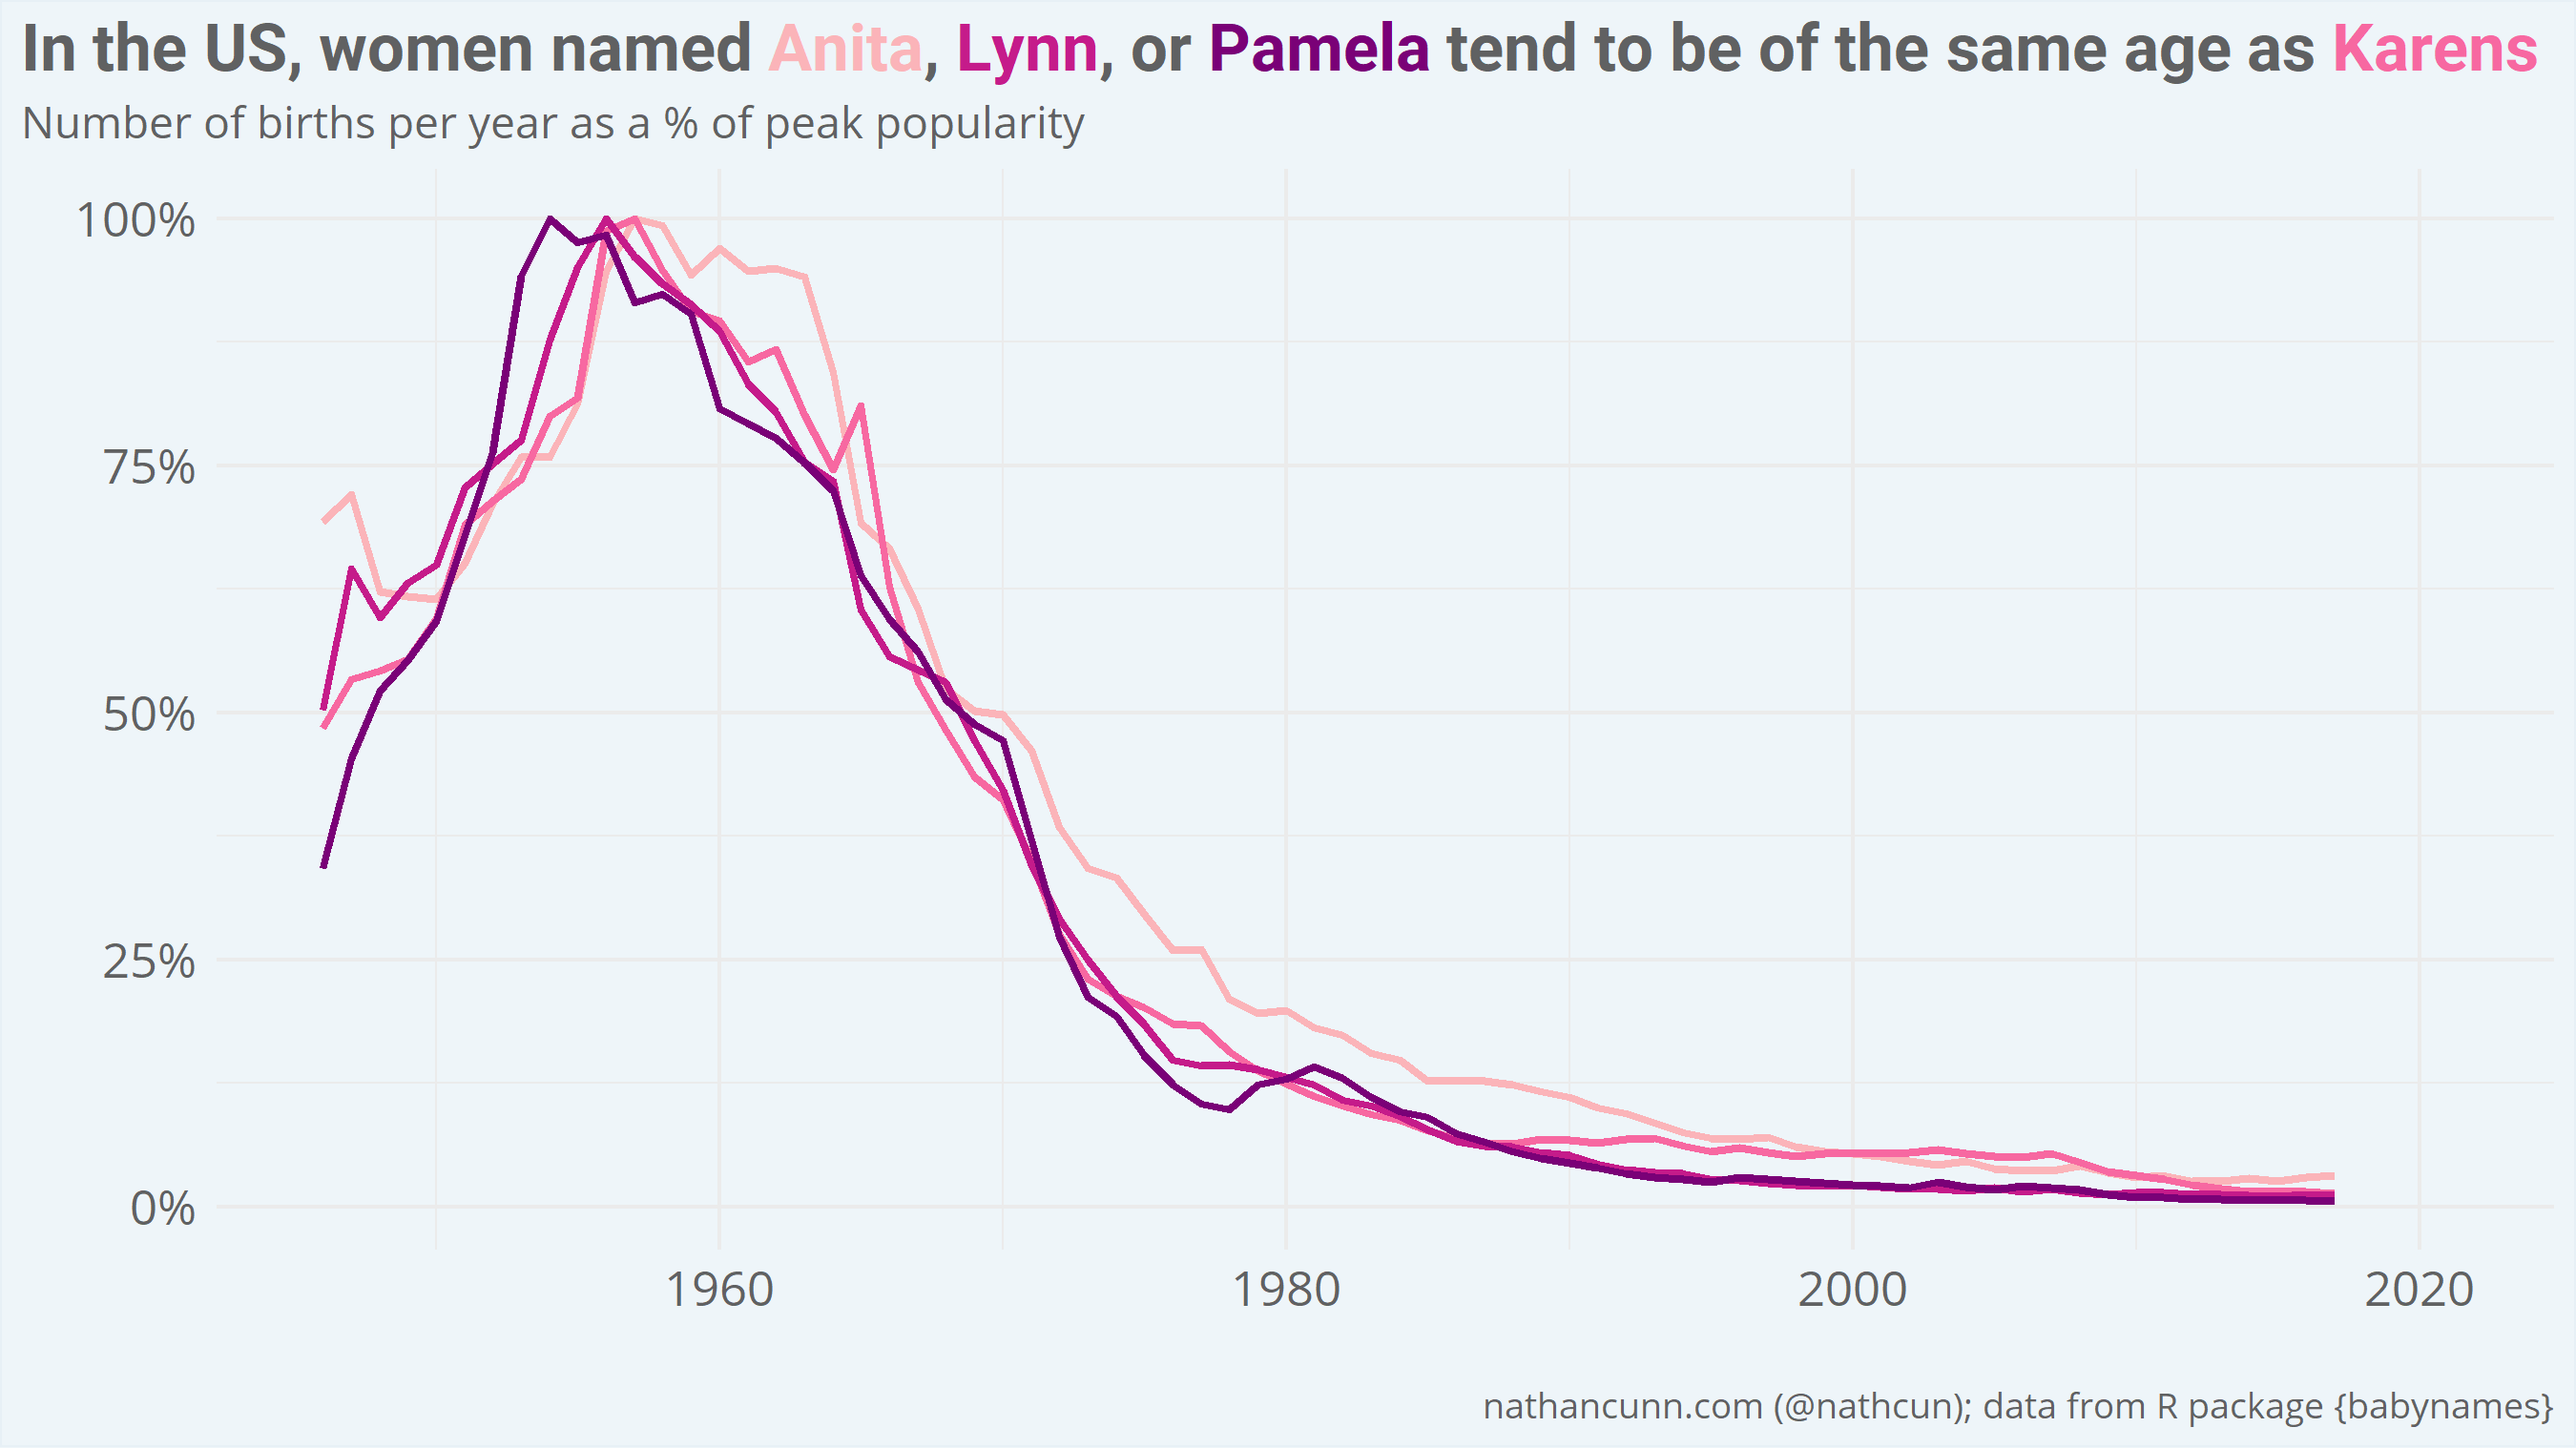
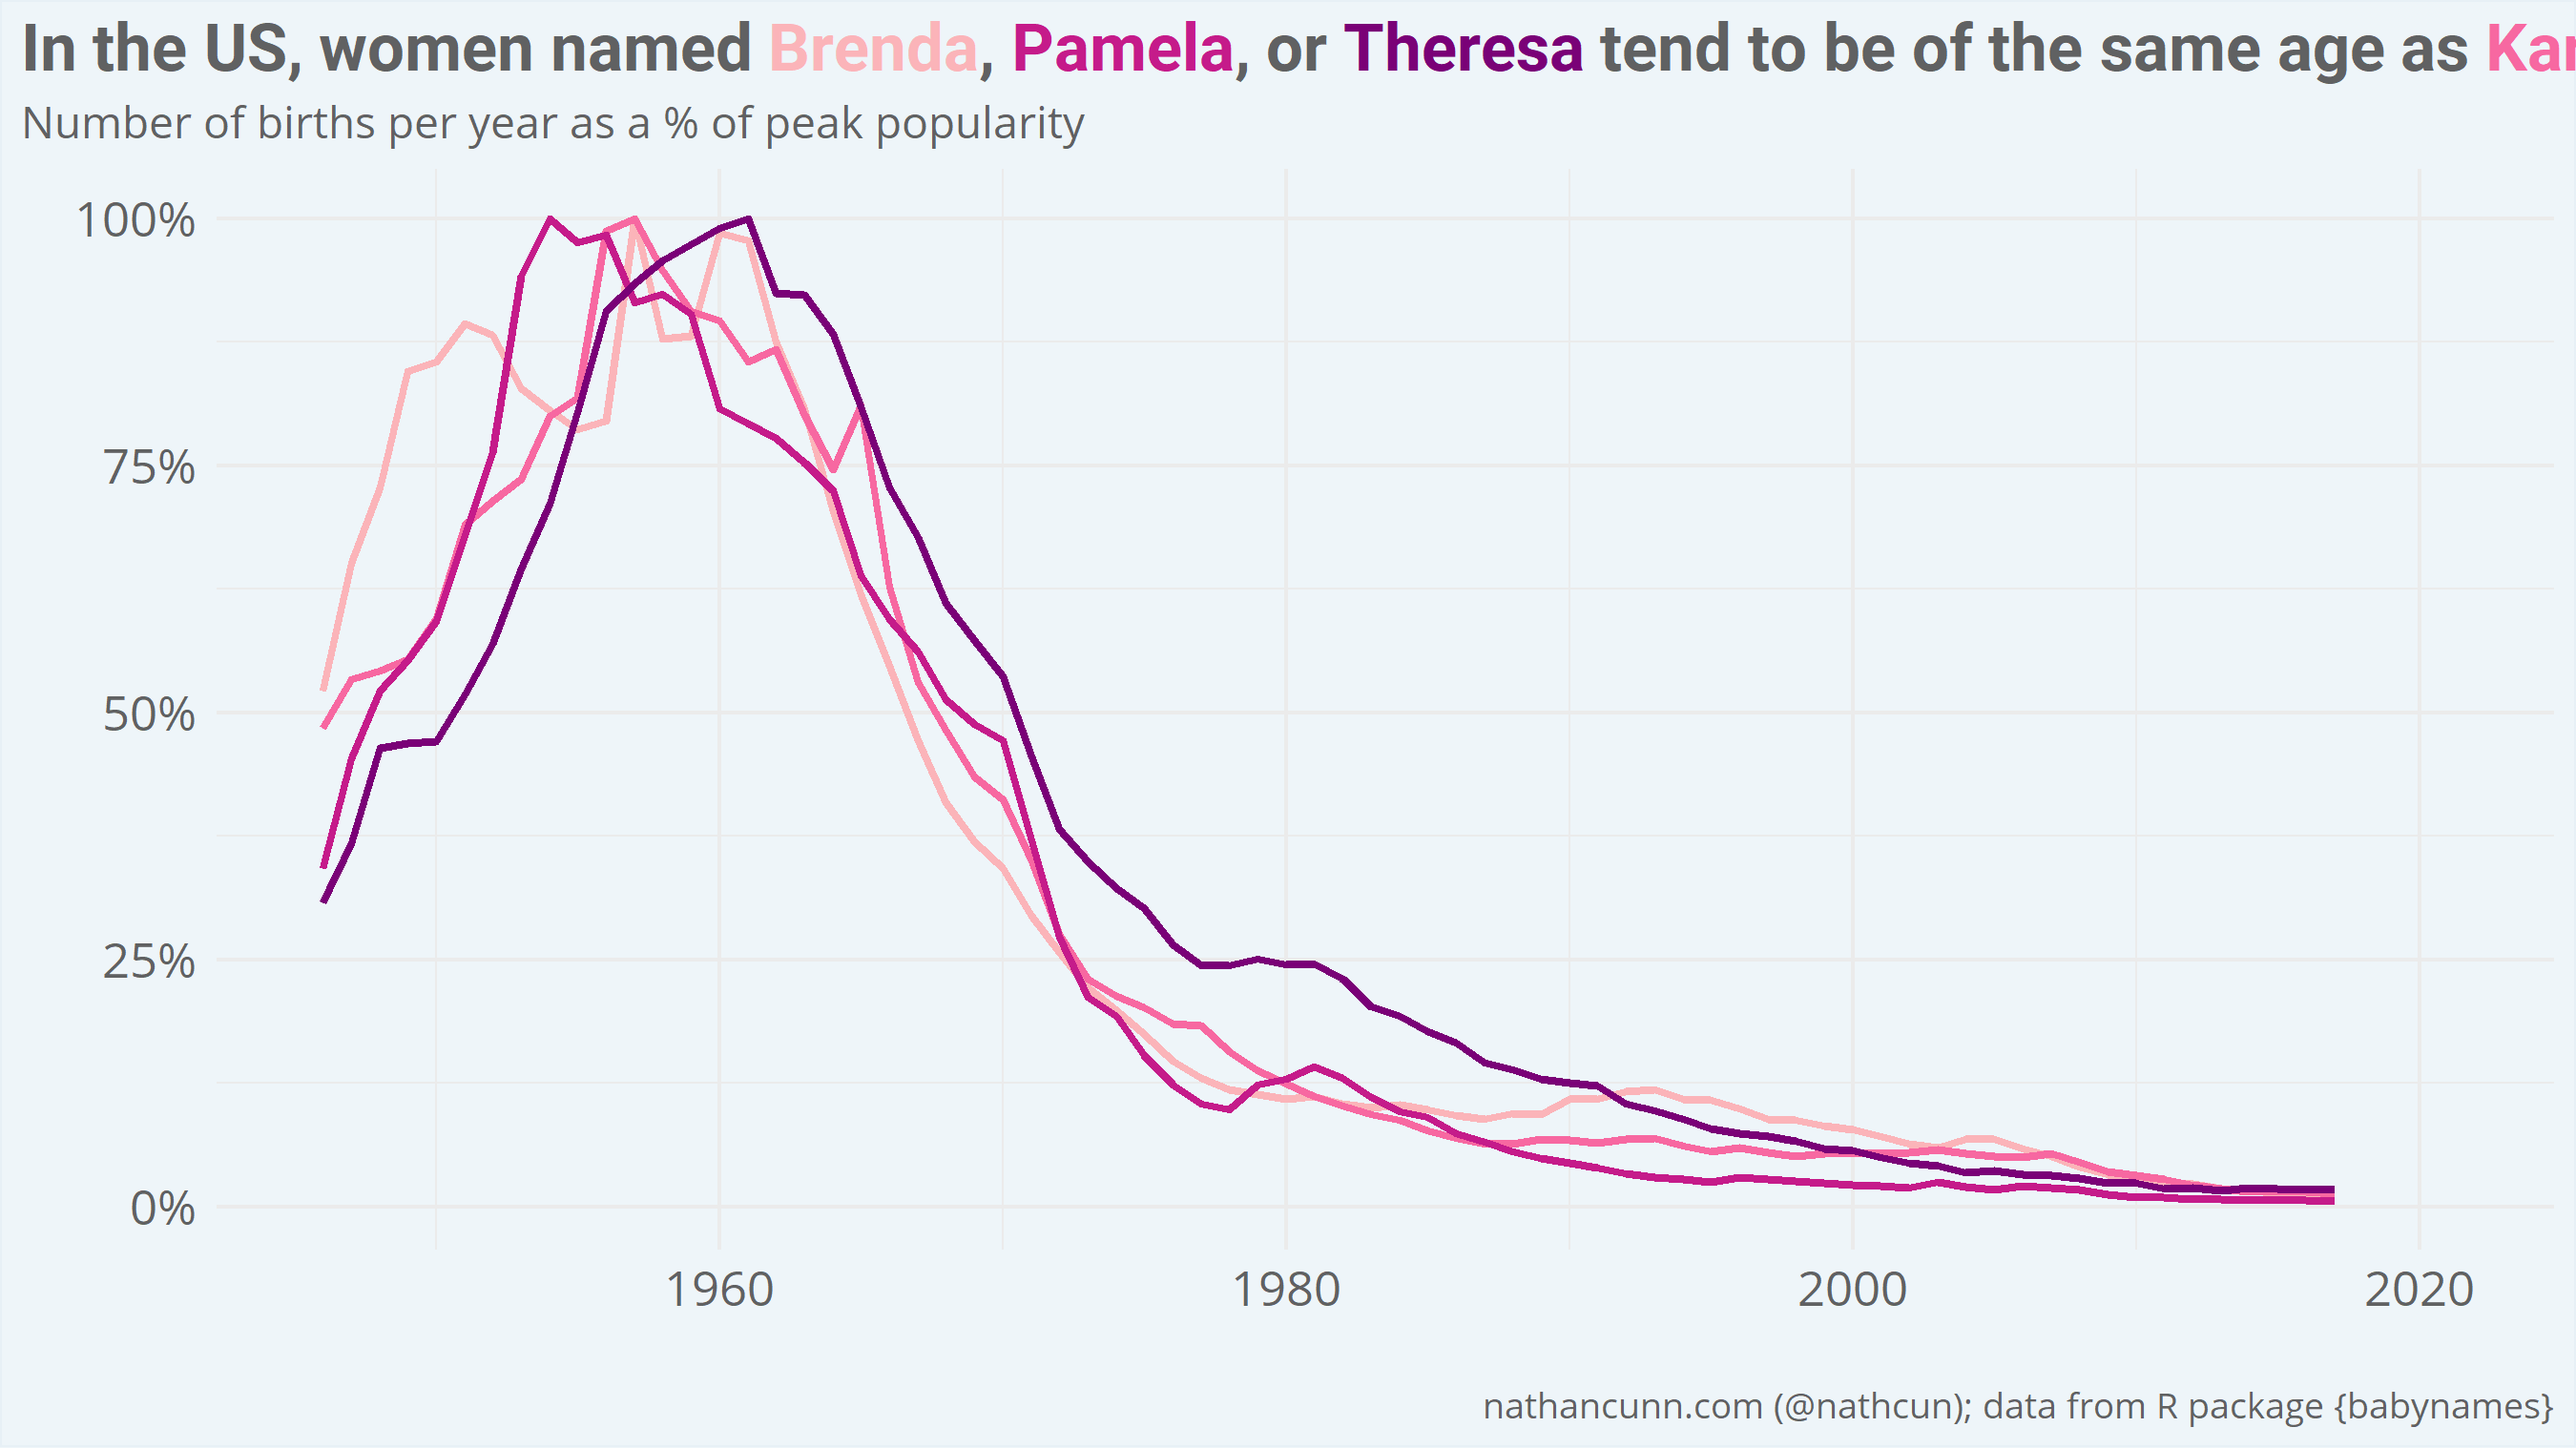
Update Karen posts

Changed region(s): [[0.1244, 0.1548, 0.9022, 0.836], [0.28, 0.0, 1.0, 0.0619]]

diff --git a/_posts/2020-08-14-karen.md b/_posts/2020-08-14-karen.md
@@ -13,12 +13,12 @@ The _Karen_ archetype, to be clear, predates the pandemic and is more generally 
 ![Line chart showing number of Karens born per year in the US, with a peak occurring in the late 1950s, and decline from the late 1960s.](../figure/source/karens/karens.png)
 
 
-On the other hand, women named Anita, Lynn, or Pamela (among others) might count themselves lucky not to have been landed with the entitlement label.
-Of names associated with greater than 100,000 births since 1945, these are the names exhibiting the most similar pattern. The relative ubiquity of Karens, might be why they were spared (>880,000 Karens born since 1945, in contrast with >569,00 Pamelas, >165,000 Lynns, and >143,000 Anitas).
+On the other hand, women named Brenda, Pamela, or Theresa (among others) might count themselves lucky not to have been landed with the entitlement label.
+Of names associated with greater than 250,000 births since 1945, these exhibit the most similar pattern to Karen. The relative ubiquity of Karens, might be why they were spared (>880,000 Karens born since 1945, in contrast with >556,000 Brendas, >569,00 Pamelas, and >285,000 Theresas).
 
-![Line chart showing number of Anitas, Lynns, Pamelas, and Karens born per year in the US, with a peak occurring in the late 1950s, and decline from the late 1960s. All names show extremely similar patterns.](../figure/source/karens/us_female_karens.png)
+![Line chart showing number of Brendas, Pamelas, Theresas, and Karens born per year in the US, with a peak occurring in the late 1950s, and decline from the late 1960s. All names show extremely similar patterns.](../figure/source/karens/us_female_karens.png)
 
-Entitlement and privilege are, obviously, not distinctly female traits, and so men named Glenn might also consider themselves lucky to have avoided the stigma.
+Entitlement and privilege are, obviously, not distinctly female traits, and so men named Terry might also consider themselves lucky to have avoided the stigma; the name accounts for >338,000 men and went in and out of vogue at much the same time as Karen. As an aside if you look only at names relating to >500,000 births since 1945 the closest match is Donald.
 
 
 ![Line chart showing number of Anitas, Lynns, Pamelas, and Karens born per year in the US, with a peak occurring in the late 1950s, and decline from the late 1960s. All names show extremely similar patterns.](../figure/source/karens/us_male_karens.png)
